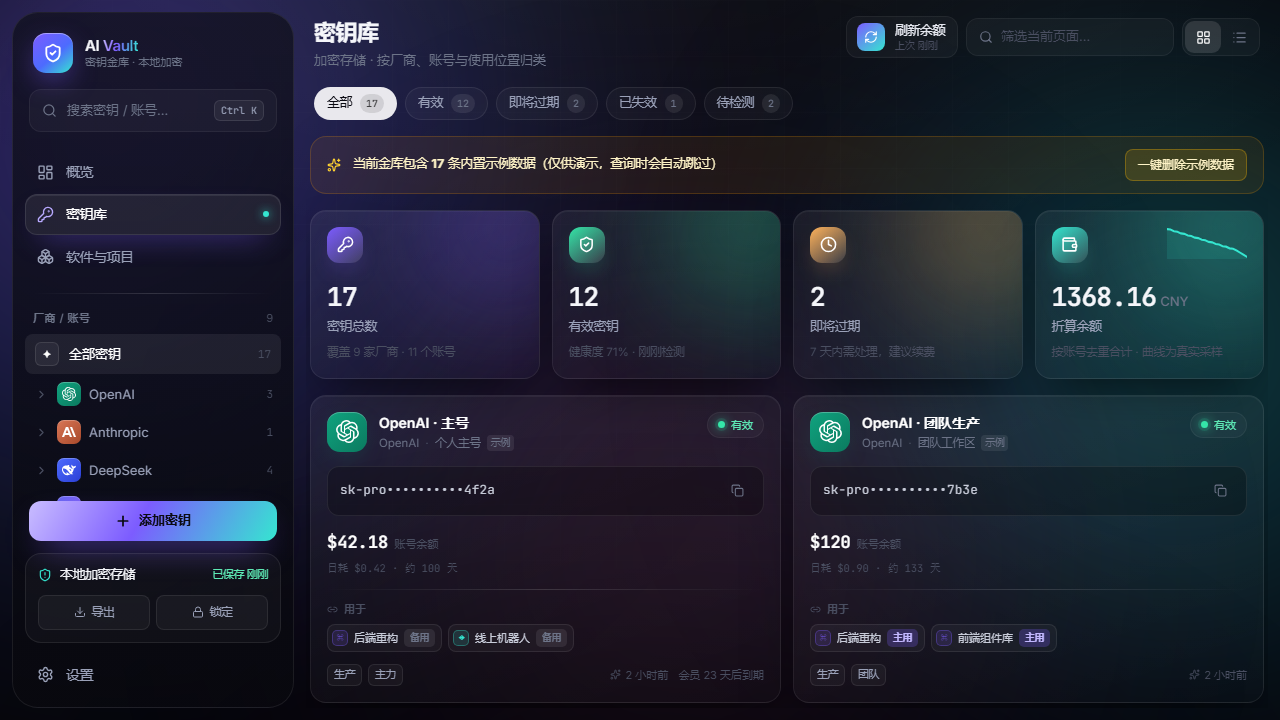
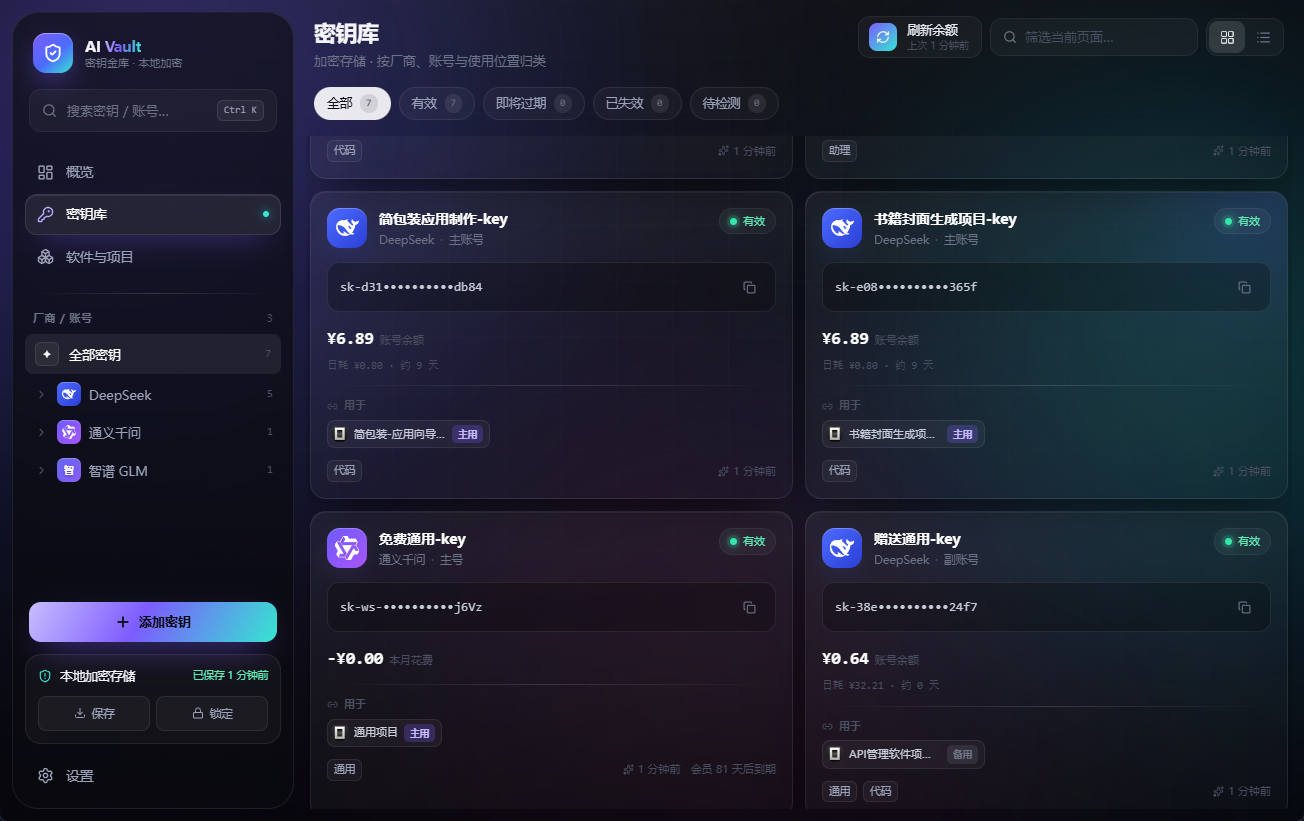
README: 主要特性前移；密钥详情增加余额曲线图；替换密钥库/软件与项目图；手机端 4 图横排（中英同步）

diff --git a/README.en.md b/README.en.md
@@ -36,6 +36,21 @@ uploaded.
 
 ---
 
+## ✨ Features
+
+- **Encrypted storage** — AES-256-GCM with an Argon2id-derived key (64 MiB / 3 passes); plaintext keys only in memory while unlocked.
+- **Hierarchical model** — `Provider → Account → Key`, usage side `Software → Project`, linked with `primary / backup` roles.
+- **Balance & spend** — DeepSeek / Moonshot / OpenRouter / SiliconFlow directly; OpenAI / Anthropic via an Admin key; Qwen (通义千问) via its official CLI.
+- **Validity checks** — probe each key against a free endpoint.
+- **Balance snapshots** — recorded only when the balance changes, so trends and burn-rate are real.
+- **The vault is a file** — one `.aivault` file (PSD-like), written immediately and again before exit.
+- **Mobile friendly** — a built-in local service lets a phone browser connect over LAN, or anywhere via Tailscale.
+- **Background / launch at login** — closing the window minimizes to the tray; autostart toggle in Settings.
+- **File icon** — double-click a `.aivault` to open it in the app.
+- **Portable** — an unzipped folder runs on any Windows PC.
+
+---
+
 ## 🖥 Overview · one dashboard for everything
 
 <p align="center"><img src="assets/screenshot-overview.png" alt="Overview" width="90%" /></p>
@@ -55,13 +70,17 @@ daily burn, and estimated days left**, with one-click copy (**the clipboard is c
 
 ---
 
-## 🔎 Key detail · account, balance and where it is used
+## 🔎 Key detail · account, balance and usage
 
-<p align="center"><img src="assets/screenshot-detail.png" alt="Key detail" width="30%" /></p>
+<p align="center">
+  <img src="assets/screenshot-detail.png" alt="Key detail" width="24%" />
+  <img src="assets/screenshot-balance.png" alt="Balance history" width="70%" />
+</p>
 
 Click any key → a side panel with the **owning account**, the other keys in that account, the
 **account balance** (shared within the account), a **real balance-history chart**, and
-**check validity / edit / delete**.
+**check validity / edit / delete**. Clicking the chart opens the **balance-history detail** (large chart
+plus a per-sample “time / balance / change” table).
 
 ---
 
@@ -77,28 +96,16 @@ Grouped by `Software → Project`: which projects each software has, and which k
 ## 📱 Mobile · just a phone browser
 
 <p align="center">
-  <img src="assets/screenshot-mobile-lock.png" alt="Mobile lock screen" width="22%" />
-  <img src="assets/screenshot-mobile.png" alt="Mobile" width="24%" />
+  <img src="assets/screenshot-mobile-lock.png" alt="Mobile lock screen" width="23%" />
+  <img src="assets/screenshot-mobile-overview.png" alt="Mobile overview" width="23%" />
+  <img src="assets/screenshot-mobile.png" alt="Mobile keys" width="23%" />
+  <img src="assets/screenshot-mobile-projects.png" alt="Mobile projects" width="23%" />
 </p>
 
 The desktop app ships a **built-in local service**: open it from a phone browser on the same Wi-Fi and
 you get the full UI, sharing the **same data** with the desktop (the password is still decrypted on the
 phone). With **Tailscale** (free) it also works **across networks / remotely**. Supports
 "Add to Home Screen".
-
----
-
-## ✨ Features
-
-- **Encrypted storage** — AES-256-GCM with an Argon2id-derived key (64 MiB / 3 passes); plaintext keys only in memory while unlocked.
-- **Hierarchical model** — `Provider → Account → Key`, usage side `Software → Project`, linked with `primary / backup` roles.
-- **Balance & spend** — DeepSeek / Moonshot / OpenRouter / SiliconFlow directly; OpenAI / Anthropic via an Admin key; Qwen (通义千问) via its official CLI.
-- **Validity checks** — probe each key against a free endpoint.
-- **Balance snapshots** — recorded only when the balance changes, so trends and burn-rate are real.
-- **The vault is a file** — one `.aivault` file (PSD-like), written immediately and again before exit.
-- **Background / launch at login** — closing the window minimizes to the tray; autostart toggle in Settings.
-- **File icon** — double-click a `.aivault` to open it in the app.
-- **Portable** — an unzipped folder runs on any Windows PC.
 
 ---
 

diff --git a/README.md b/README.md
@@ -34,6 +34,21 @@
 
 ---
 
+## ✨ 主要特性
+
+- **加密保管**：AES-256-GCM 加密，密钥由金库密码经 Argon2id（64 MiB / 3 轮）派生；明文只在解锁后的内存里。
+- **层级建模**：`厂商 → 账号 → 密钥`、`软件 → 项目`，用「主用 / 备用」绑定。
+- **余额 / 花费**：DeepSeek、Moonshot、OpenRouter、硅基流动直接查；OpenAI / Anthropic 用「管理密钥」查本月花费；通义千问走官方 CLI（可一键安装登录）。
+- **有效性检测**：逐把 key 调免费接口判断是否失效。
+- **余额快照 / 趋势**：只在余额变化时记录，能看真实曲线、日消耗、预计可用天数。
+- **文件即金库**：金库就是一个 `.aivault` 文件（类似 PSD），改动**立即写盘**，关软件前再保存一次。
+- **手机可用**：内置本地服务，手机浏览器连同一 WiFi 即可用；配合 Tailscale 可跨网络（异地）访问。
+- **后台运行 / 开机自启**：关窗收进右下角托盘继续跑；设置里可开关开机自启。
+- **`.aivault` 文件图标**：双击即可用本软件打开。
+- **便携**：免安装文件夹版，拷到任意 Windows 电脑即可运行。
+
+---
+
 ## 🖥 概览 · 一站式看板
 
 <p align="center"><img src="assets/screenshot-overview.png" alt="概览" width="90%" /></p>
@@ -54,10 +69,14 @@
 
 ## 🔎 密钥详情 · 账号、余额与使用位置
 
-<p align="center"><img src="assets/screenshot-detail.png" alt="密钥详情" width="30%" /></p>
+<p align="center">
+  <img src="assets/screenshot-detail.png" alt="密钥详情" width="24%" />
+  <img src="assets/screenshot-balance.png" alt="余额变化明细" width="70%" />
+</p>
 
 点开任意密钥 → 右侧抽屉：**所属账号**、同一账号下的其他密钥、**账号余额**（同账号共用）、
-**余额变化曲线**（真实采样）、以及「检测有效性 / 编辑 / 删除」。
+**余额变化曲线**（真实采样）、以及「检测有效性 / 编辑 / 删除」。点曲线还能打开**余额变化明细**
+（大图 + 每次采样的「时间 / 余额 / 变化」表格）。
 
 ---
 
@@ -73,26 +92,14 @@
 ## 📱 手机端 · 手机浏览器即可用
 
 <p align="center">
-  <img src="assets/screenshot-mobile-lock.png" alt="手机锁屏" width="22%" />
-  <img src="assets/screenshot-mobile.png" alt="手机主界面" width="24%" />
+  <img src="assets/screenshot-mobile-lock.png" alt="手机锁屏" width="23%" />
+  <img src="assets/screenshot-mobile-overview.png" alt="手机概览" width="23%" />
+  <img src="assets/screenshot-mobile.png" alt="手机密钥库" width="23%" />
+  <img src="assets/screenshot-mobile-projects.png" alt="手机软件与项目" width="23%" />
 </p>
 
 桌面版**内置本地服务**：手机浏览器连同一个 WiFi 打开即可用全部功能，电脑与手机**共用同一份**数据
 （密码仍在手机端解密）。配合 **Tailscale**（免费）还能**跨网络、异地**访问；支持「添加到主屏幕」当 App 用。
-
----
-
-## ✨ 主要特性
-
-- **加密保管**：AES-256-GCM 加密，密钥由金库密码经 Argon2id（64 MiB / 3 轮）派生；明文只在解锁后的内存里。
-- **层级建模**：`厂商 → 账号 → 密钥`、`软件 → 项目`，用「主用 / 备用」绑定。
-- **余额 / 花费**：DeepSeek、Moonshot、OpenRouter、硅基流动直接查；OpenAI / Anthropic 用「管理密钥」查本月花费；通义千问走官方 CLI（可一键安装登录）。
-- **有效性检测**：逐把 key 调免费接口判断是否失效。
-- **余额快照 / 趋势**：只在余额变化时记录，能看真实曲线、日消耗、预计可用天数。
-- **文件即金库**：金库就是一个 `.aivault` 文件（类似 PSD），改动**立即写盘**，关软件前再保存一次。
-- **后台运行 / 开机自启**：关窗收进右下角托盘继续跑；设置里可开关开机自启。
-- **`.aivault` 文件图标**：双击即可用本软件打开。
-- **便携**：免安装文件夹版，拷到任意 Windows 电脑即可运行。
 
 ---
 
